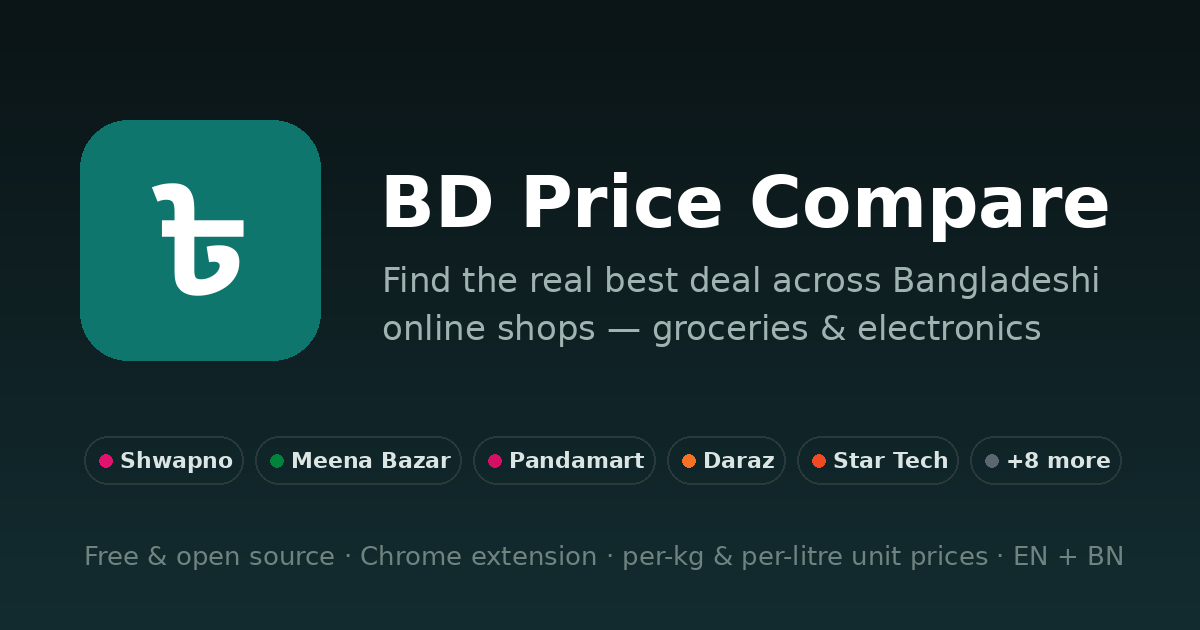
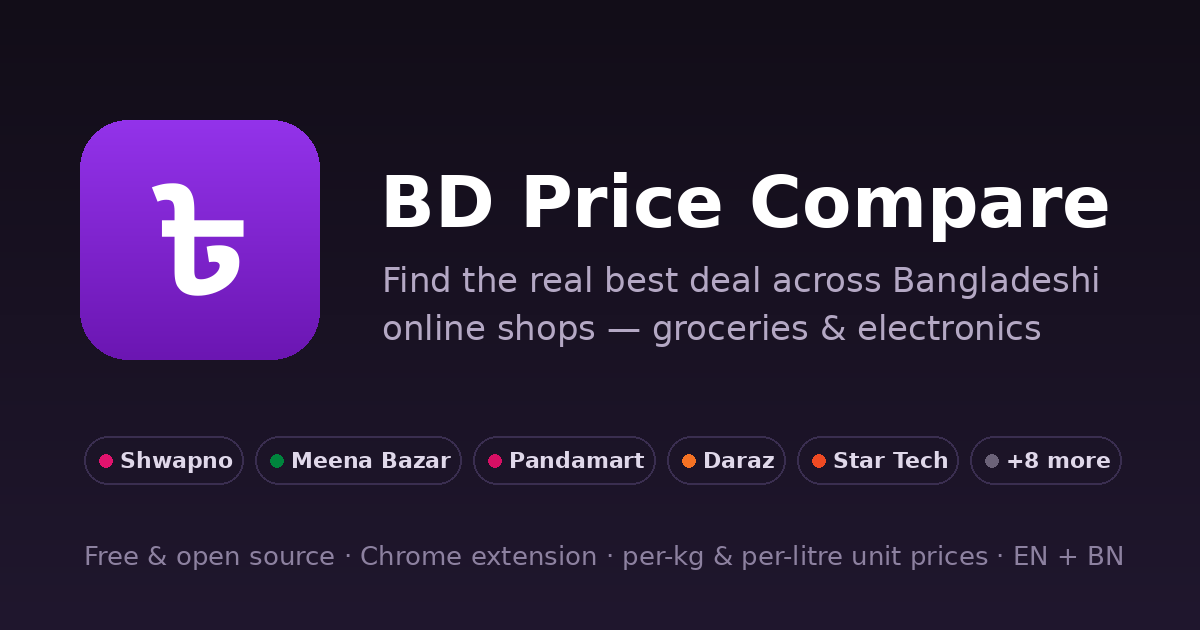
Switch color palette to Plum Royale
Rich purple (#7e22ce) with lilac accents (#c084fc) across the popup,
overlay, compare buttons, options page, toolbar icons, badge, landing
page and Open Graph banner. Unit-price text gets its own --up token so
dark mode keeps readable lilac text while buttons stay deep purple.

diff --git a/content/overlay.js b/content/overlay.js
@@ -57,10 +57,10 @@
         }
         @media (prefers-color-scheme: dark) {
           .panel { background: #14181d; color: #e8eaee; border-color: #2a2f37; }
-          .row:hover { background: #1d242b !important; }
+          .row:hover { background: #251b31 !important; }
         }
         .hd { display:flex; align-items:center; gap:8px; padding:9px 12px; border-bottom:1px solid rgba(128,128,128,.25); }
-        .logo { display:inline-grid; place-items:center; width:20px; height:20px; border-radius:6px; background:#0f766e; color:#fff; font-weight:700; font-size:12px; }
+        .logo { display:inline-grid; place-items:center; width:20px; height:20px; border-radius:6px; background:#7e22ce; color:#fff; font-weight:700; font-size:12px; }
         .hd b { flex:1; font-size:13px; }
         .hd button { all:unset; cursor:pointer; padding:2px 7px; border-radius:6px; color:#888; font-size:14px; }
         .hd button:hover { background: rgba(128,128,128,.15); }
@@ -68,7 +68,7 @@
         .list { overflow-y:auto; padding:4px; }
         .row { display:grid; grid-template-columns:36px 1fr auto; gap:8px; align-items:center;
                padding:6px; border-radius:8px; text-decoration:none; color:inherit; }
-        .row:hover { background:#f0fdf9; }
+        .row:hover { background:#faf5ff; }
         .row img { width:36px; height:36px; object-fit:contain; border-radius:6px; background:#fff; border:1px solid rgba(128,128,128,.25); }
         .nm {
           font-weight:500; max-width:205px; overflow:hidden;
@@ -77,9 +77,9 @@
         }
         .st { font-size:9.5px; font-weight:700; color:#fff; padding:1px 6px; border-radius:999px; }
         .pr { font-weight:700; font-size:12.5px; text-align:right; }
-        .up { font-size:10.5px; color:#0f9488; text-align:right; }
+        .up { font-size:10.5px; color:#9333ea; text-align:right; }
         .addb { all:unset; cursor:pointer; margin-left:6px; width:22px; height:22px; text-align:center;
-                border-radius:6px; background:#0f766e; color:#fff; font-weight:700; font-size:13px; line-height:22px; }
+                border-radius:6px; background:#7e22ce; color:#fff; font-weight:700; font-size:13px; line-height:22px; }
         .msg { padding:18px 12px; text-align:center; color:#888; }
         .why {
           margin:2px 6px 6px; padding:6px 10px; border-radius:8px;

diff --git a/popup.css b/popup.css
@@ -1,22 +1,25 @@
+/* Plum Royale palette */
 :root {
   --bg: #ffffff;
-  --fg: #1a1f2b;
-  --muted: #6b7280;
-  --line: #e5e7eb;
-  --accent: #0f766e;
-  --accent-soft: #ecfdf5;
+  --fg: #1f1a28;
+  --muted: #6f6680;
+  --line: #e8e3ef;
+  --accent: #7e22ce;       /* buttons, active states */
+  --up: #7e22ce;           /* unit-price / highlight text */
+  --accent-soft: #f5edff;
   --best: #fff7e0;
   --best-line: #f2c200;
 }
 @media (prefers-color-scheme: dark) {
   :root {
-    --bg: #111418;
-    --fg: #e8eaee;
-    --muted: #9aa3af;
-    --line: #2a2f37;
-    --accent: #2dd4bf;
-    --accent-soft: #10231f;
-    --best: #262009;
+    --bg: #16111c;
+    --fg: #ece7f2;
+    --muted: #a79cb5;
+    --line: #2f2740;
+    --accent: #7e22ce;
+    --up: #c084fc;
+    --accent-soft: #241a30;
+    --best: #261a06;
     --best-line: #8a6d00;
   }
 }
@@ -103,7 +106,7 @@ h1 { font-size: 15px; margin: 0; }
 .heron:hover { text-decoration: underline; }
 .heroright { text-align: right; }
 .heroprice { font-size: 17px; font-weight: 800; }
-.herounit { color: var(--accent); font-size: 11.5px; font-weight: 700; }
+.herounit { color: var(--up); font-size: 11.5px; font-weight: 700; }
 .herosave { color: #16a34a; font-size: 11px; font-weight: 700; margin-top: 1px; }
 .herobtns { display: flex; gap: 6px; justify-content: flex-end; margin-top: 5px; }
 .best .whyline { grid-column: 1 / -1; margin-top: 0; }
@@ -154,7 +157,7 @@ body.fullpage main { max-height: none; }
 .pricebox { text-align: right; white-space: nowrap; min-width: 64px; }
 .price { font-size: 14px; font-weight: 700; }
 .old { color: var(--muted); text-decoration: line-through; font-size: 11.5px; margin-right: 5px; }
-.unitprice { color: var(--accent); font-size: 11.5px; font-weight: 600; }
+.unitprice { color: var(--up); font-size: 11.5px; font-weight: 600; }
 .oos { color: #c0392b; font-size: 11px; font-weight: 600; }
 
 .storeerr {

diff --git a/docs/index.html b/docs/index.html
@@ -10,7 +10,7 @@
   <meta name="robots" content="index, follow">
   <link rel="canonical" href="https://saikatnjm.github.io/bd-price-compare/">
   <link rel="icon" href="icon128.png" type="image/png">
-  <meta name="theme-color" content="#0f766e">
+  <meta name="theme-color" content="#7e22ce">
 
   <!-- Open Graph -->
   <meta property="og:type" content="website">
@@ -101,8 +101,8 @@
 
   <style>
     :root {
-      --bg: #0b1416; --panel: #101e21; --line: #223438; --fg: #e8efee;
-      --muted: #93a8a5; --accent: #2dd4bf; --accent-deep: #0f766e;
+      --bg: #120d18; --panel: #191221; --line: #2e2440; --fg: #ece7f2;
+      --muted: #a79cb5; --accent: #c084fc; --accent-deep: #7e22ce;
       --gold: #f2c200; --pink: #e2136e;
     }
     * { box-sizing: border-box; }
@@ -134,7 +134,7 @@
       display: inline-flex; align-items: center; gap: 10px;
       background: var(--accent-deep); color: #fff; text-decoration: none;
       font-weight: 700; font-size: 17px; padding: 14px 26px; border-radius: 12px;
-      box-shadow: 0 6px 24px rgba(15, 118, 110, .45); transition: transform .12s;
+      box-shadow: 0 6px 24px rgba(126, 34, 206, .45); transition: transform .12s;
     }
     .cta:hover { transform: translateY(-2px); }
     .cta small { font-weight: 500; opacity: .8; }
@@ -196,7 +196,7 @@
       width: 30px; height: 30px; display: grid; place-items: center;
       background: var(--accent-deep); color: #fff; font-weight: 800; border-radius: 50%;
     }
-    code { background: #182a2d; border: 1px solid var(--line); padding: 1px 7px; border-radius: 6px; font-size: 14px; }
+    code { background: #221a2e; border: 1px solid var(--line); padding: 1px 7px; border-radius: 6px; font-size: 14px; }
 
     details {
       background: var(--panel); border: 1px solid var(--line); border-radius: 12px;

diff --git a/options.html b/options.html
@@ -5,10 +5,10 @@
   <title>BD Price Compare — Settings</title>
   <style>
     :root {
-      --bg: #fff; --fg: #1a1f2b; --muted: #6b7280; --line: #e5e7eb; --accent: #0f766e;
+      --bg: #fff; --fg: #1a1f2b; --muted: #6b7280; --line: #e5e7eb; --accent: #7e22ce;
     }
     @media (prefers-color-scheme: dark) {
-      :root { --bg: #111418; --fg: #e8eaee; --muted: #9aa3af; --line: #2a2f37; --accent: #2dd4bf; }
+      :root { --bg: #111418; --fg: #e8eaee; --muted: #9aa3af; --line: #2a2f37; --accent: #a855f7; }
     }
     body {
       font: 14px/1.5 system-ui, sans-serif; background: var(--bg); color: var(--fg);

diff --git a/content/compare-button.js b/content/compare-button.js
@@ -88,7 +88,7 @@
     btn.style.cssText = [
       'all:initial', 'cursor:pointer', 'display:inline-grid', 'place-items:center',
       'width:22px', 'height:22px', 'margin-left:8px', 'border-radius:50%',
-      'background:#0f766e', 'color:#fff', 'font:700 13px/1 system-ui,sans-serif',
+      'background:#7e22ce', 'color:#fff', 'font:700 13px/1 system-ui,sans-serif',
       'vertical-align:middle', 'box-shadow:0 1px 4px rgba(0,0,0,.25)',
       'transition:transform .12s'
     ].join(';');

diff --git a/background.js b/background.js
@@ -160,7 +160,7 @@ async function rememberSearch(query) {
 async function updateBadge() {
   const n = cartCount(await getCart());
   await chrome.action.setBadgeText({ text: n ? String(n) : '' });
-  await chrome.action.setBadgeBackgroundColor({ color: '#0f766e' });
+  await chrome.action.setBadgeBackgroundColor({ color: '#7e22ce' });
 }
 chrome.storage.onChanged.addListener((changes, area) => {
   if (area === 'local' && changes.cart) updateBadge();
